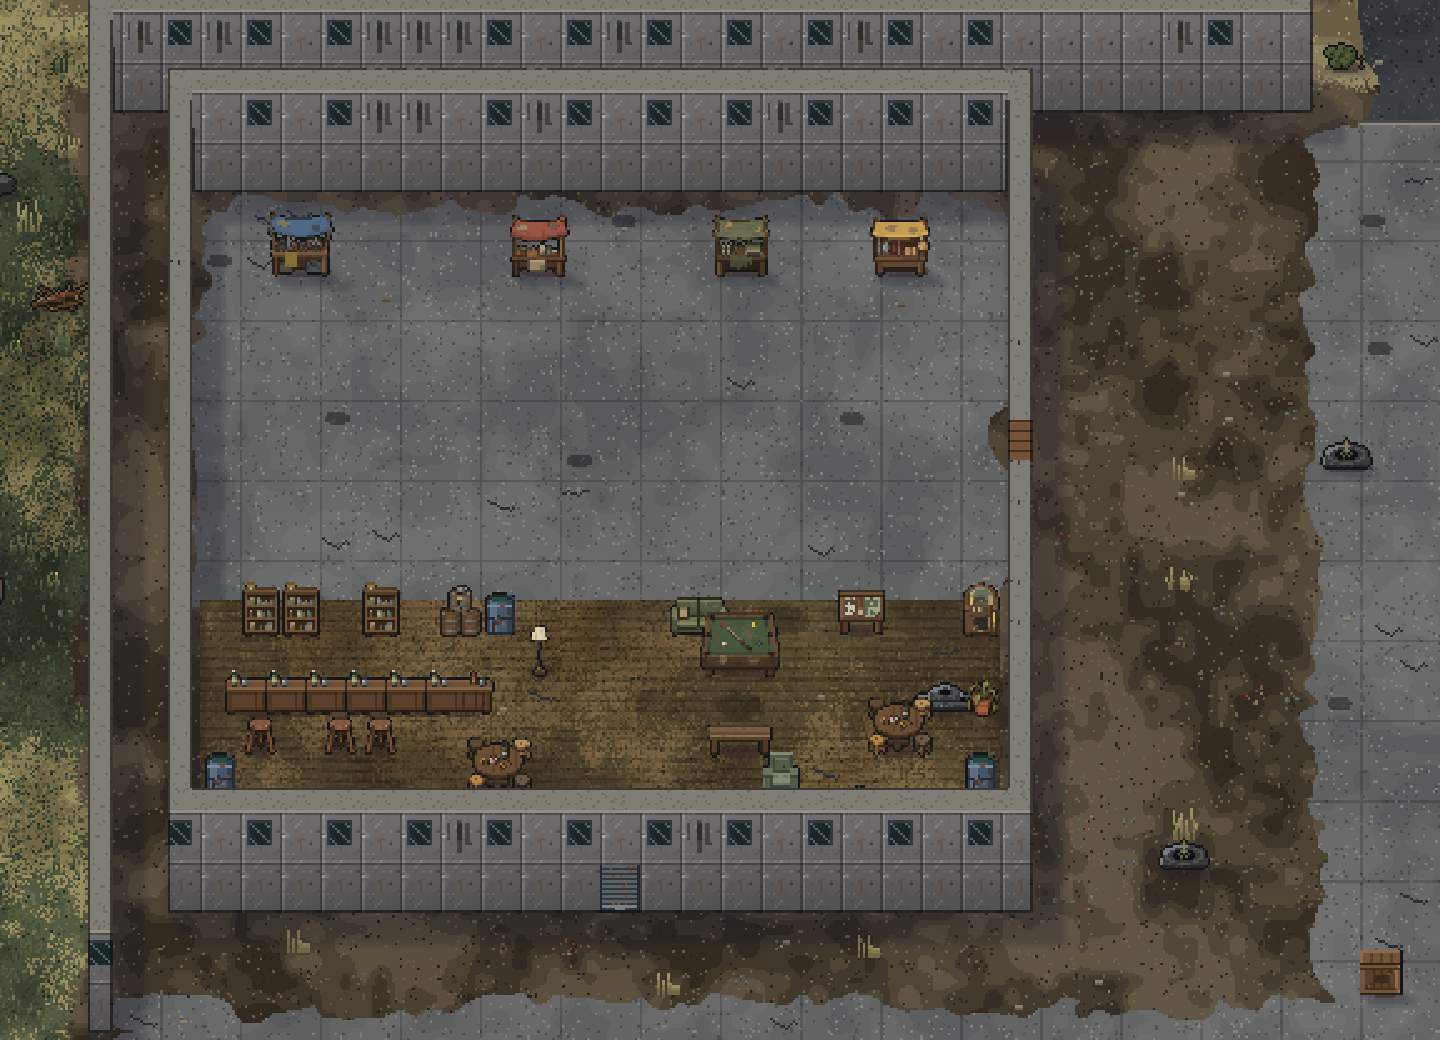
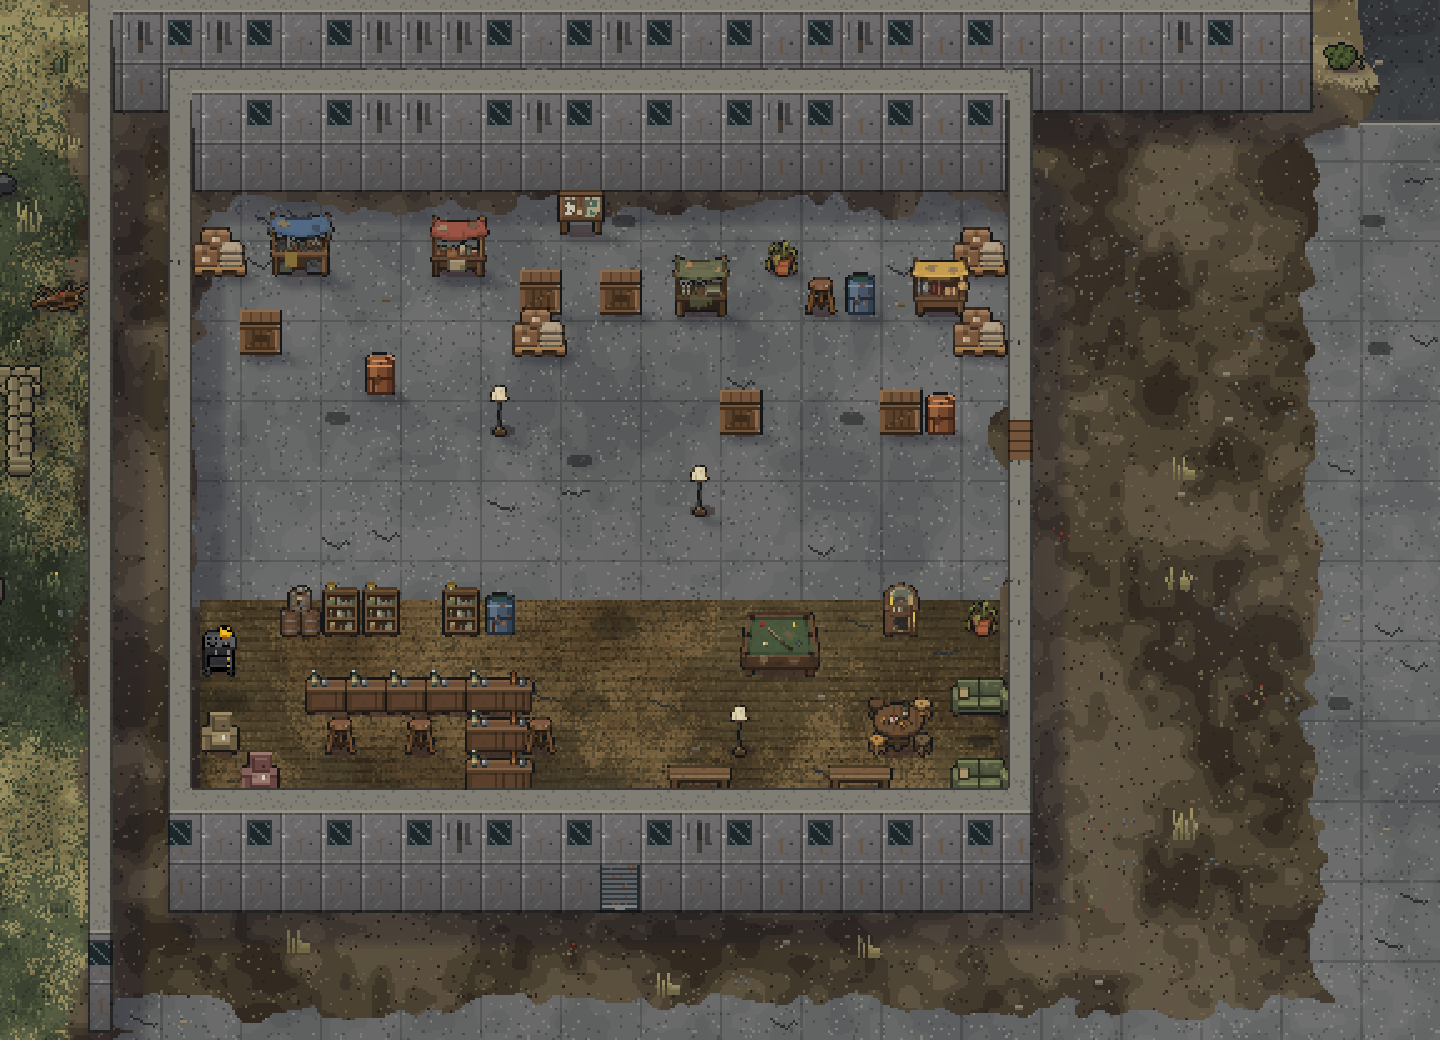
References doc and rule; Bazaar and bar re-laid from them (clustered stalls, L counter, dressed corners)
Claude-Session: https://claude.ai/code/session_01Jpd5tdDJTR7BVueAYV1KDM

diff --git a/Assets/Scripts/GameCore/Interiors.cs b/Assets/Scripts/GameCore/Interiors.cs
@@ -453,24 +453,26 @@ namespace GameCore
         };
 
 
+
+
         public static readonly string[] WarehouseN = {
             "######################",
+            "#.........N..........#",
+            "#X.............p....X#",
+            "#........c.c....Sr...#",
+            "#.c......X..........X#",
+            "#....r...............#",
+            "#.......y.....c...cr.#",
             "#....................#",
-            "#....................#",
-            "#....................#",
-            "#....................#",
-            "#....................#",
-            "#....................#",
-            "#....................#",
-            "#....................#",
+            "#............y.......#",
             "#....................D",
             "#....................#",
-            "#.PP.P.Gr....o...N..J#",
-            "#........y....Q......#",
-            "#.VVVVVV............p#",
-            "#.S.SS........B...U..#",
-            "#r......U......a....r#",
-            "#.B..............y...#",
+            "#..GPP.Pr.........J.p#",
+            "#s.............Q.....#",
+            "#...VVVVV...........o#",
+            "#a..S.S.VS....y...U..#",
+            "#.a.....V....B...B..o#",
+            "#....................#",
             "#....................#",
             "###########D##########",
         };

diff --git a/Assets/Scripts/GameCore/Bazaar.cs b/Assets/Scripts/GameCore/Bazaar.cs
@@ -15,9 +15,9 @@ namespace GameCore
         public static readonly Stall[] Stalls =
         {
             new Stall { Kind = "armor",   Name = "Armour Stall",  Look = "stall_blue",  X = 71, Y = 146 },
-            new Stall { Kind = "weapons", Name = "Arms Stall",    Look = "stall_red",   X = 77, Y = 146 },
-            new Stall { Kind = "medical", Name = "Medic Stall",   Look = "stall_green", X = 82, Y = 146 },
-            new Stall { Kind = "black",   Name = "Black Market",  Look = "stall_ochre", X = 86, Y = 146 },
+            new Stall { Kind = "weapons", Name = "Arms Stall",    Look = "stall_red",   X = 75, Y = 146 },
+            new Stall { Kind = "medical", Name = "Medic Stall",   Look = "stall_green", X = 81, Y = 147 },
+            new Stall { Kind = "black",   Name = "Black Market",  Look = "stall_ochre", X = 87, Y = 147 },
         };
         static readonly HashSet<string> MedicalIds = new HashSet<string> { "basicMedkit", "basicStim", "splint", "bandage", "radBlockPill" };
 

diff --git a/ArtSource/BUILDING_REFERENCES.md b/ArtSource/BUILDING_REFERENCES.md
@@ -1,0 +1,16 @@
+# References for places (read before building a market, bar, house, barracks...)
+
+Yan, 2026-11-25: "search for references before building stuff like the bazaar and bar, right now they do not look very natural". Rule (also in CLAUDE.md): **before laying out a new kind of place, search for references, write the principles here, then build from them.** Web search returns text only (no images); if Yan has images he likes, he can drop them in `ArtSource/refs/` and they take priority.
+
+## What the first search found (2026-11-25; thin, so treat as starting points)
+- **Bazaar / souk:** looks chaotic but follows trade clustering (like goods together; Ottoman bazaars had passages given to one craft); narrow alleys with small stalls on both sides, shaded by a patchwork of awnings; grows organically in modules, never redrawn. A post-apocalyptic market reads as a labyrinth of makeshift stalls, scrap heaps and bright tarps. Fallout 4's Nuka-Town market is walked as a loop from the entrance: livestock pen, weapon and general stalls, workbenches. Sources: wikipedia Bazaar/Suq, historyrise.com Ottoman marketplaces, connollycove.com, fables.gg post-apocalyptic world entries, gamerguides.com Fallout 4 Nuka-Town market.
+- **Bar / pub:** about 3 ft (one tile) clear behind the counter for staff; about 2 ft of counter per seated customer; the counter and stools along one wall, booths or small tables along the opposite wall, round four-chair tables on the open floor; short logical paths between bar and seating; a back-of-house (kitchen/store) behind the bar. Sources: pos.toasttab.com bar floor plans, restaurant.eatapp.co, dimensions.com bar, critical-hits.com "architect DM".
+- **Natural dressing:** "chaos with logic" - clusters with a reason (a stool by a stove, crates by a stall), uneven spacing, empty space kept on purpose; avoid grids and mirrored halves (Dishonored 2 level designer, 80.lv; gamedesignskills.com environmental storytelling).
+
+## Rules we take from it
+1. **Cluster by function, with a reason**: arms next to armour, medical alone, the black market tucked in a corner behind crates; the bar's kegs behind the counter, the stove with armchairs at the cold end.
+2. **Goods and mess round every stall**: crates, sacks, barrels, a stool for the seller, a notice board on the wall; keep the queue space in front open.
+3. **Counter = L or island with a staff aisle one tile wide**, shelves and kegs behind it, stools pulled out unevenly on the customer side.
+4. **Furniture goes on walls or in groups, never single props floating in the middle**; tables in 2-3 with different spacing; space for a pool table to be played (about one tile clear round it).
+5. **No mirrored or evenly stepped rows**; vary gaps (2-3-1), offset neighbouring stalls by a row.
+6. Props cannot rotate yet (one south-facing sprite each): keep shelves and counters visually backed by something, and use the sprites' fronts toward the open floor.

diff --git a/ArtSource/WORK_LOG.md b/ArtSource/WORK_LOG.md
@@ -7342,3 +7342,9 @@ Yan: "the artstyle is not consistent on the furniture, some have hard black outl
 - `Bazaar.cs` (new): the four stalls (world 71/77/82/86, 146), `Bazaar.Near(player)`, per-vendor stock (arms: weapons tier 1-3 + ammo; armour tier 1-3; medical: the baseline medkits/stims/splints/bandages/pills + Layer-2 medkits/stims; black market: weapons/armour tier 3-4 + a rolled tier-4 one-off stock under `bazaar_black`). `ShopUI.cs`: B within 3 tiles of a stall opens that vendor (its own name and tier cap); B anywhere else in the hub still opens the general shop. `ShopSystem.VendorMarkup` (x2 for the black market, reset on close) multiplies `GetBuyPrice`. Harness checks cover colours, hard cover, stock kinds and tiers, the doubled price and the stall lookup.
 - Art: Pixel Lab (20 generations, atlas desk anchor): `pooltable`, `jukebox`, `cardtable` (round table with four stools), `kegs`; glyphs Q J U G; kegs hold small loot (`warehouse` archetype). The NW warehouse's bar now spans the whole south end on a wood floor: back-bar shelves, kegs and barrels, a long counter with stools, a pool table, jukebox, notice board, two card tables, a sofa, armchair, benches, lamps, a plant. The lane from the south door stays clear.
 - Not run in Unity. Not checked: B near a stall in play (prompt/hint is only the log), vendor lists' length and prices, the black market's one-off roll, whether blue/red/green/ochre should map differently, the trader NPCs' spots (Bazaar landmark (79,149), Rusty Anchor (72,156)).
+
+## Batch 9fb (2026-11-25) - references first; bazaar and bar re-laid from them
+
+- Yan: "search for references before building stuff like the bazaar and bar, they do not look very natural". Searched (text only, results thin): bazaars/souks (trade clusters, narrow alleys, awnings, organic growth), post-apocalyptic markets, pub/bar floor plans (staff aisle about one tile, stools about every 2 ft of counter, booths and round tables), set-dressing advice (chaos with logic, no grids or mirrored halves). Written down in `ArtSource/BUILDING_REFERENCES.md`; new rule 4b in `CLAUDE.md`: search references before building a kind of place.
+- Applied to the NW warehouse: stalls clustered by trade (armour + arms side by side at the top wall, medical alone and offset a row, the black market tucked into the NE corner behind crates; stall tiles now (71,146) (75,146) (81,147) (87,147)), crates, sacks, barrels, a seller's stool, a plant and a notice board round them, queue space left open. The bar: an L-shaped counter with a one-tile staff aisle, back-bar shelves and kegs behind it, stools pulled out unevenly, a stove with armchairs at the west end, benches; the lounge: pool table with clear space, jukebox and sofa booth at the east, one card table. Found that the last two floor rows (y16-17) are hidden by the south wall in the render, so nothing important stands there.
+- Harness passes; not run in Unity.

diff --git a/CLAUDE.md b/CLAUDE.md
@@ -27,6 +27,7 @@ This file was rewritten on 2026-10-20 (after RT 7s).
 3. **Faction colours on suits must stay readable.** Lighting may tint and darken units, never recolour them.
 4. **Show real renders, not mockups.** When Yan reviews art, show actual game output: harness
    renders or Unity screenshots. Mockups that misrepresented the game have hurt before.
+4b. **Search for references before building a kind of place** (market, bar, house, barracks...), write the principles in `ArtSource/BUILDING_REFERENCES.md`, build from them (Yan, 2026-11-25: the bazaar and bar "do not look very natural").
 5. Yan wants autonomy: keep working without asking about small things. Do ask before big
    direction changes (art direction, gameplay rules). Answer concisely, in plain language.
 6. **Never nerf enemies or bosses to fix difficulty.** Give the player tools instead (Yan, 2026-10-09).
